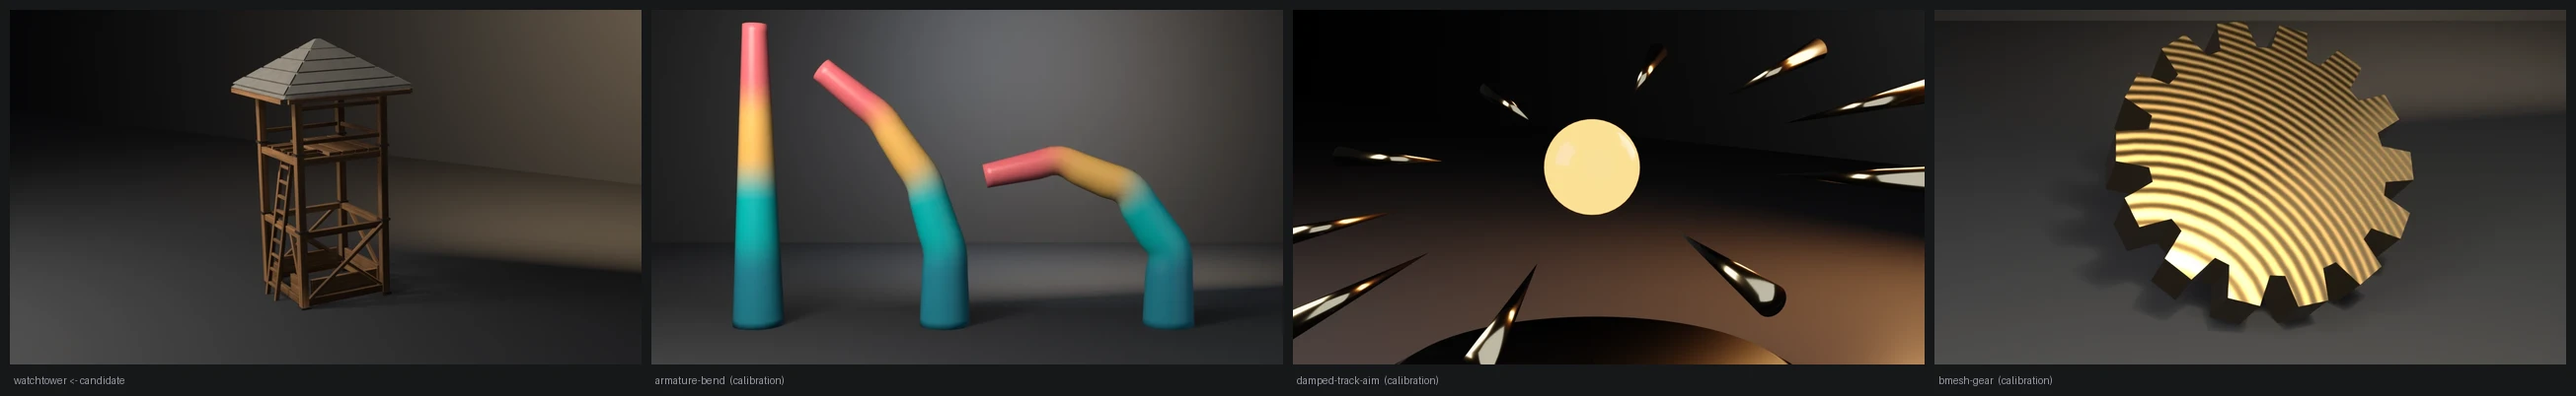
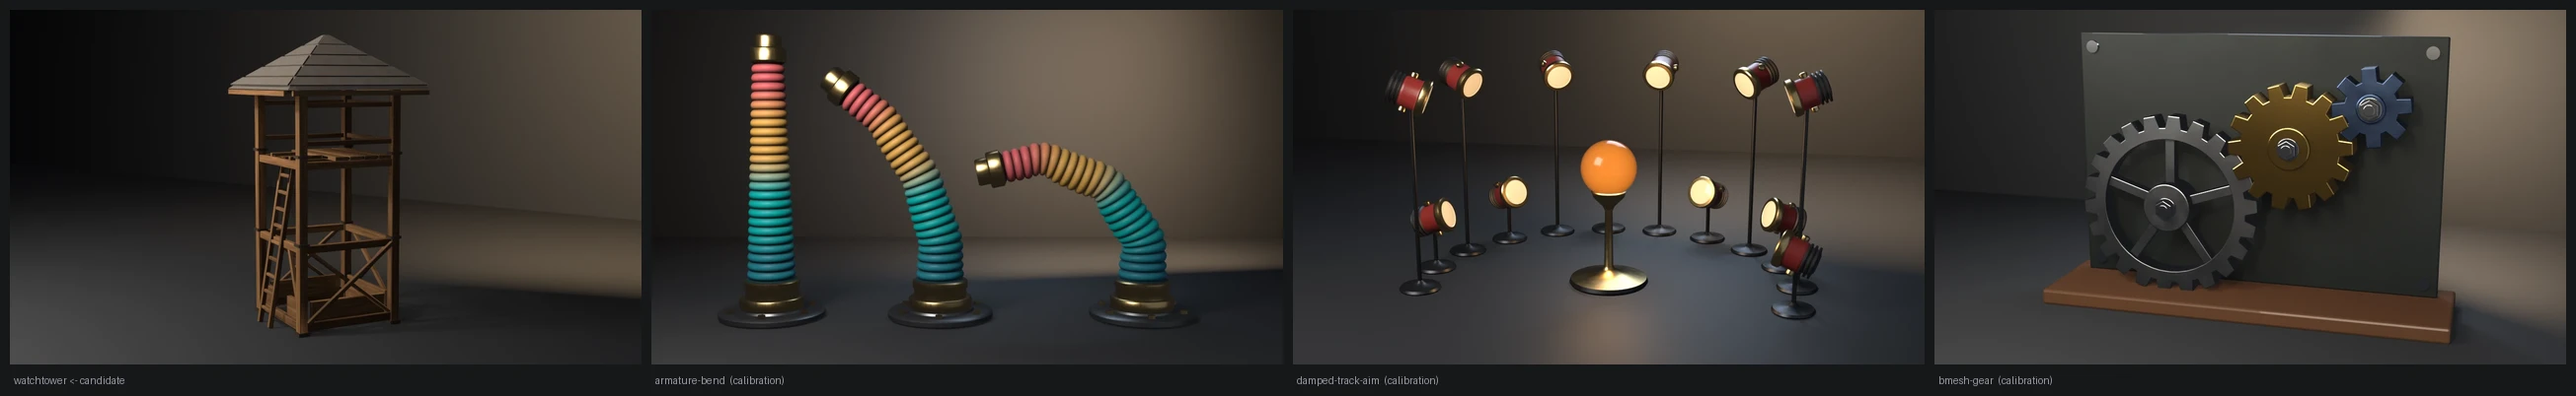
fix(showcase): frame the watchtower close and low, level it, weather its roof
The tower sat small in the frame (it was tilted 2 degrees about X, which the
showcase level-on-the-stage rule forbids). It now turns about Z only, and
the camera moves in and down so the tower fills the frame vertically
(fill y 0.856). The shake roof goes from flat grey to weathered cedar
brown with silvered wear. Geometry and budgets are unchanged.

Evidence (live, local .scratch binaries):
- Blender 5.2.1 LTS and 4.5.11 LTS: default exit 0; --skip-decimate 9,
  --stray-vert 15, --lift-z 16, --short-shoes 16, --short-rails 17,
  --open-sides 17, --short-joists 17, --float-band 18, --rake-posts 19.
- --output passes framing on both (fill y 0.856, margins >= 0.072).
- Contact sheet: luma 0.174 / stage 0.182 / warmth +0.129 / sat 0.161.
- Asset sheet: comparable to the well and wheelbarrow; passes.

diff --git a/showcase/watchtower/watchtower.py b/showcase/watchtower/watchtower.py
@@ -824,8 +824,8 @@ def tower_materials():
     """
     wood = wood_material("TowerWood")
     roof = principled(
-        "TowerShake", (0.26, 0.24, 0.21, 1.0), 0.0, 0.82,
-        noise_scale=14.0, wear=(0.16, 0.15, 0.13, 1.0),
+        "TowerShake", (0.15, 0.105, 0.07, 1.0), 0.0, 0.78,
+        noise_scale=14.0, wear=(0.20, 0.19, 0.175, 1.0),
     )
     metal = principled(
         "TowerIron", (0.17, 0.165, 0.155, 1.0), 0.80, 0.46,
@@ -1502,8 +1502,9 @@ def render_still(low, wood, tex, path, engine):
             ob.hide_render = True
             ob.hide_viewport = True
 
+    # turned about Z only: any tilt about X sinks one row of shoes into the
+    # floor and lifts the other (showcase README, level on the stage)
     low.rotation_euler.z = math.radians(-28.0)
-    low.rotation_euler.x = math.radians(2.0)
 
     floor_me = bpy.data.meshes.new("Floor")
     bm = bmesh.new()
@@ -1551,13 +1552,13 @@ def render_still(low, wood, tex, path, engine):
     cam_data = bpy.data.cameras.new("Cam")
     cam_data.lens = 50.0
     cam = bpy.data.objects.new("Cam", cam_data)
-    cam.location = (span * 1.98, -span * 2.75, span * 1.13)
+    cam.location = (span * 1.78, -span * 2.50, span * 0.85)
     scene.collection.objects.link(cam)
     aim = bpy.data.objects.new("Aim", None)
     aim.location = (
         0.5 * (bb[0] + bb[3]),
         0.5 * (bb[1] + bb[4]),
-        0.42 * (bb[2] + bb[5]),
+        0.47 * (bb[2] + bb[5]),
     )
     scene.collection.objects.link(aim)
     con = cam.constraints.new("TRACK_TO")

diff --git a/README.md b/README.md
@@ -112,18 +112,18 @@ Budget-conformance props. Not examples. Conventions: [`showcase/README.md`](show
   <a href="showcase/shipping-crate/"><img src="showcase/shipping-crate/preview.webp" width="24%" alt="Shipping crate: a wooden slat crate stencilled PORT ROYAL and NO 17, with iron corner brackets and an end handle, on a dark studio floor, warm wedge on the back wall" /></a>
   <a href="showcase/stone-well/"><img src="showcase/stone-well/preview.webp" width="24%" alt="Stone well: a round well of varied grey stones with a grained wooden pyramid roof on posts, rope and a bucket on rusted iron hoops, on a dark studio floor" /></a>
   <a href="showcase/wooden-barrel/"><img src="showcase/wooden-barrel/preview.webp" width="24%" alt="Wooden barrel: a 20-stave wine-cask with a head of four boards, chord-lofted iron hoops, and a bung on a dark studio floor" /></a>
-  <a href="showcase/campfire/"><img src="showcase/campfire/preview.webp" width="24%" alt="Campfire: a two-course ring of rounded fieldstones around a tripod of logs and glowing ash on a dark studio floor, warm wedge on the back wall" /></a>
+  <a href="showcase/campfire/"><img src="showcase/campfire/preview.webp" width="24%" alt="Campfire: a two-course ring of warm, soot-dark fieldstones around a tripod of charring logs over ember-cracked coals on a dark studio floor, warm wedge on the back wall" /></a>
   <a href="showcase/market-stall/"><img src="showcase/market-stall/preview.webp" width="24%" alt="Market stall: a grained timber frame with post feet, diagonal side braces, slatted counter, rafters, and a striped canvas awning on a dark studio floor, warm wedge on the back wall" /></a>
   <a href="showcase/street-lantern/"><img src="showcase/street-lantern/preview.webp" width="24%" alt="Street lantern: an iron post with aged brass collars, a knee brace tenoned into post and arm, and a lit muntined amber cage glowing onto the post on a dark studio floor" /></a>
   <a href="showcase/treasure-chest/"><img src="showcase/treasure-chest/preview.webp" width="24%" alt="Treasure chest: a slatted wooden chest with iron bands, corner brackets, and an open lid on a dark studio floor" /></a>
   <a href="showcase/terrain-scatter/"><img src="showcase/terrain-scatter/preview.webp" width="24%" alt="Terrain scatter: a Geometry Nodes hill tile of patchy grass over dark earth, nine faceted stones sunk into it among grass tufts and pebbles, on a dark studio floor" /></a>
   <a href="showcase/fence-kit/"><img src="showcase/fence-kit/preview.webp" width="24%" alt="Fence kit: a run of three weathered post-and-rail sections on a packed-earth strip, joined post to post at the 1.60 m tile pitch, with pyramidal caps, diagonal board braces, and iron bands" /></a>
-  <a href="showcase/watchtower/"><img src="showcase/watchtower/preview.webp" width="24%" alt="Watchtower: a grained timber lookout with X-braces, hatch ladder, a plank platform on deck girts, and a coursed shake roof on a dark studio floor" /></a>
+  <a href="showcase/watchtower/"><img src="showcase/watchtower/preview.webp" width="24%" alt="Watchtower: a grained timber lookout seen from low and close, with X-braces, hatch ladder, a plank platform on deck girts, and a weathered cedar shake roof on a dark studio floor" /></a>
   <a href="showcase/cart/"><img src="showcase/cart/preview.webp" width="24%" alt="Cart: a two-wheel wooden cart with spoked wheels, slatted bed, and shafts on a dark studio floor" /></a>
   <a href="showcase/park-bench/"><img src="showcase/park-bench/preview.webp" width="24%" alt="Park bench: a wrought-iron bench whose round-bar legs curl into scrolled feet, with wooden slats and a reclined back, on a dark studio floor" /></a>
   <a href="showcase/wheelbarrow/"><img src="showcase/wheelbarrow/preview.webp" width="24%" alt="Wheelbarrow: a wooden tray with walls of stacked boards and iron straps, a spoked wheel, rear legs, and handles on a dark studio floor" /></a>
   <a href="showcase/anvil/"><img src="showcase/anvil/preview.webp" width="24%" alt="Anvil: a forged-steel London-pattern anvil with a hammer-polished face on a hooped timber stump, a hammer at its foot" /></a>
-  <a href="showcase/water-trough/"><img src="showcase/water-trough/preview.webp" width="24%" alt="Water trough: a watertight wooden trough with plank ends, contained water, and trestle legs on a dark studio floor" /></a>
+  <a href="showcase/water-trough/"><img src="showcase/water-trough/preview.webp" width="24%" alt="Water trough: a watertight wooden trough with plank ends, rippled water, rust-streaked iron straps and trestle legs on a dark studio floor" /></a>
   <a href="showcase/hitching-post/"><img src="showcase/hitching-post/preview.webp" width="24%" alt="Hitching post: a square timber post with a pyramidal cap, cross-arm, iron bands wrapped around it, two hitching rings and a nailed horseshoe on a dark studio floor" /></a>
   <a href="showcase/grindstone/"><img src="showcase/grindstone/preview.webp" width="24%" alt="Grindstone: a stone wheel on a timber A-frame with an iron axle, hubs, crank, and tray on a dark studio floor" /></a>
   <a href="showcase/hand-pump/"><img src="showcase/hand-pump/preview.webp" width="24%" alt="Hand pump: a green-enamelled cast-iron village pump on a stepped wooden plinth with a spout and handle on a dark studio floor" /></a>

diff --git a/showcase/watchtower/README.md b/showcase/watchtower/README.md
@@ -149,3 +149,7 @@ hygiene and joint-fit family.
 | 17 | Joint fit: rail-to-post engage, side-rail engage, or deck bearing |
 | 18 | Seat: girt-collar standoff |
 | 19 | Post plumb or plan off the stated real-world size |
+
+## Hero
+
+The still used to tilt the tower 2° about X, which the showcase rule "level on the stage" forbids (it sinks one row of shoes and lifts the other); it now turns about Z only. The camera moved in and down (fill y 0.856, was ~0.77) so the tower reads as tall rather than lost in the frame, and the shake roof went from flat grey to weathered cedar brown with silvered wear. Geometry and budgets are unchanged.
